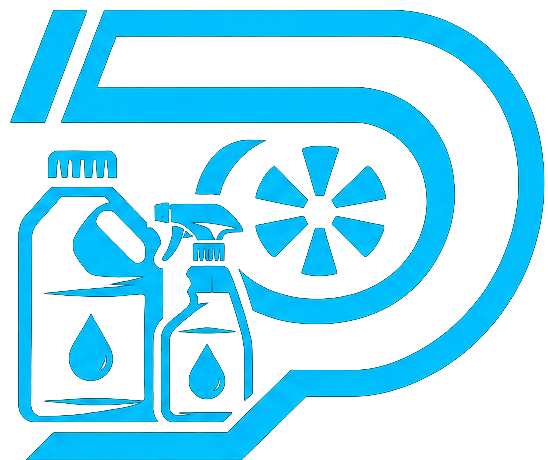
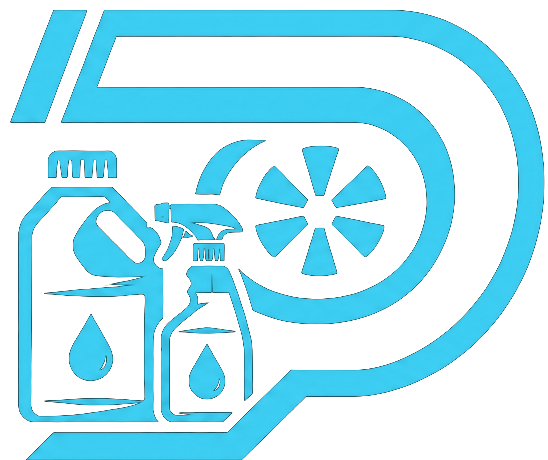
Brand colour sweep: everything on accent cyan #3DC9F0
Images (were neon #01BEFC-#08D1FC, now #3DC9F0 family):
- logo_transparent.png, all 6 category icons, favicon.ico, og-image.jpg
  recoloured with the same method as the loader (hue 193, sat/val
  matched to the UI accent); shapes and transparency unchanged

Code:
- pc-account.js: greys/panel/error colours switched to the site
  tokens (#F2F6F7, #8FA0A6, #C7D0D2, #111415, #03171D, #E84545)
- partout.html: --amber #E8A845 -> #F0B83D (same as every other page)
- privacy.html, terms.html: --panel-2 #161a1b -> #161B1C

Audit result: all 16 pages already shared the same :root palette;
#62D6F5 is the consistent button-hover shade site-wide (kept).
Left as-is on purpose: affiliate category pin colours, Pursuit /
leaderboard game theme.

Claude-Session: https://claude.ai/code/session_01Uve6pFe4KynvzSVAD1vMhd

diff --git a/pc-account.js b/pc-account.js
@@ -145,7 +145,7 @@ window.PC = window.PC || {};
       '.pc-acct-pill{display:inline-flex;align-items:center;gap:7px;cursor:pointer;',
       'padding:8px 14px;border-radius:999px;border:0.5px solid rgba(255,255,255,0.14);',
       'background:rgba(10,12,13,0.82);backdrop-filter:blur(8px);-webkit-backdrop-filter:blur(8px);',
-      'color:#e8edf0;font-size:13px;font-weight:600;letter-spacing:0.02em;line-height:1;',
+      'color:#F2F6F7;font-size:13px;font-weight:600;letter-spacing:0.02em;line-height:1;',
       'max-width:60vw;transition:border-color .15s ease,background .15s ease;}',
       '.pc-acct-pill:hover{border-color:rgba(61,201,240,0.5);background:rgba(10,12,13,0.94);}',
       '.pc-acct-label{overflow:hidden;text-overflow:ellipsis;white-space:nowrap;}',
@@ -165,35 +165,35 @@ window.PC = window.PC || {};
       '.pc-acct.topped .pc-acct-ico{width:38px;height:14px;}',
       '.pc-acct-menu.pc-acct-menu.floating{position:fixed;box-sizing:border-box;z-index:2147483000;font-family:Inter,system-ui,sans-serif;}',
       '.pc-acct-menu{position:absolute;top:calc(100% + 8px);right:0;min-width:210px;',
-      'background:#0c0f10;border:0.5px solid rgba(255,255,255,0.14);border-radius:12px;',
+      'background:#111415;border:0.5px solid rgba(255,255,255,0.14);border-radius:12px;',
       'padding:6px;box-shadow:0 12px 40px rgba(0,0,0,0.55);display:none;}',
       '.pc-acct-menu.open{display:block;}',
       '.pc-acct-item{display:block;width:100%;text-align:left;background:none;border:none;',
-      'color:#c9d3d8;font-size:13px;font-weight:500;font-family:inherit;padding:10px 12px;',
+      'color:#C7D0D2;font-size:13px;font-weight:500;font-family:inherit;padding:10px 12px;',
       'border-radius:8px;cursor:pointer;text-decoration:none;}',
       '.pc-acct-item:hover{background:rgba(61,201,240,0.1);color:#fff;}',
-      '.pc-acct-item.danger{color:#f2856f;}',
-      '.pc-acct-item.danger:hover{background:rgba(242,133,111,0.12);color:#ff9d88;}',
+      '.pc-acct-item.danger{color:#E84545;}',
+      '.pc-acct-item.danger:hover{background:rgba(232,69,69,0.12);color:#FF6B6B;}',
       '.pc-acct-sep{height:1px;background:rgba(255,255,255,0.08);margin:5px 6px;}',
       '.pc-acct-ov{position:fixed;inset:0;z-index:2147483001;display:none;align-items:center;',
       'justify-content:center;background:rgba(4,6,7,0.72);backdrop-filter:blur(4px);padding:20px;}',
       '.pc-acct-ov.open{display:flex;}',
-      '.pc-acct-card{width:100%;max-width:360px;background:#0c0f10;border:0.5px solid rgba(255,255,255,0.14);',
+      '.pc-acct-card{width:100%;max-width:360px;background:#111415;border:0.5px solid rgba(255,255,255,0.14);',
       'border-radius:16px;padding:22px;box-shadow:0 20px 60px rgba(0,0,0,0.6);}',
       '.pc-acct-card h3{margin:0 0 4px;color:#fff;font-size:17px;font-weight:700;font-family:inherit;}',
-      '.pc-acct-card p{margin:0 0 16px;color:#8b979d;font-size:13px;line-height:1.45;}',
-      '.pc-acct-card label{display:block;color:#c9d3d8;font-size:12px;font-weight:600;margin:12px 0 6px;}',
+      '.pc-acct-card p{margin:0 0 16px;color:#8FA0A6;font-size:13px;line-height:1.45;}',
+      '.pc-acct-card label{display:block;color:#C7D0D2;font-size:12px;font-weight:600;margin:12px 0 6px;}',
       '.pc-acct-card input{width:100%;padding:11px 13px;border-radius:8px;border:0.5px solid rgba(255,255,255,0.16);',
       'background:rgba(255,255,255,0.04);color:#fff;font-size:14px;font-family:inherit;}',
       '.pc-acct-card input:focus{outline:none;border-color:' + ACCENT + ';}',
       '.pc-acct-msg{font-size:12.5px;margin-top:10px;display:none;}',
       '.pc-acct-msg.ok{color:#3df08a;display:block;}',
-      '.pc-acct-msg.err{color:#f2856f;display:block;}',
+      '.pc-acct-msg.err{color:#E84545;display:block;}',
       '.pc-acct-row{display:flex;gap:8px;margin-top:18px;}',
       '.pc-acct-btn{flex:1;padding:11px 14px;border-radius:8px;border:none;cursor:pointer;',
       'font-size:13px;font-weight:700;font-family:inherit;}',
-      '.pc-acct-btn.primary{background:' + ACCENT + ';color:#04191f;}',
-      '.pc-acct-btn.ghost{background:rgba(255,255,255,0.06);color:#c9d3d8;border:0.5px solid rgba(255,255,255,0.14);}',
+      '.pc-acct-btn.primary{background:' + ACCENT + ';color:#03171D;}',
+      '.pc-acct-btn.ghost{background:rgba(255,255,255,0.06);color:#C7D0D2;border:0.5px solid rgba(255,255,255,0.14);}',
       '.pc-acct-btn:disabled{opacity:0.5;cursor:default;}'
     ].join('');
     document.head.appendChild(s);

diff --git a/partout.html b/partout.html
@@ -15,7 +15,7 @@
     --black:#070808;--panel:#111415;--panel-2:#161B1C;--line:#23292b;
     --cyan:#1FA9CF;--cyan-bright:#3DC9F0;
     --steel:#8FA0A6;--steel-dim:#5C6A6E;--white:#F2F6F7;--red:#E84545;
-    --amber:#E8A845;--violet:#9B7BE8;
+    --amber:#F0B83D;--violet:#9B7BE8;
   }
   *{box-sizing:border-box;margin:0;padding:0;}
   html{background:var(--black);scroll-behavior:smooth;}
@@ -340,7 +340,7 @@
     padding:4px 9px;border-radius:5px;
   }
   .status-chip.available{background:rgba(61,201,240,0.12);color:var(--cyan-bright);}
-  .status-chip.pending{background:rgba(232,168,69,0.12);color:var(--amber);}
+  .status-chip.pending{background:rgba(240,184,61,0.12);color:var(--amber);}
   .status-chip.reserved{background:rgba(155,123,232,0.12);color:var(--violet);}
   .status-chip.sold{background:rgba(143,160,166,0.12);color:var(--steel);}
   .part-chevron{flex-shrink:0;color:var(--steel-dim);transition:transform 0.2s;}

diff --git a/privacy.html b/privacy.html
@@ -21,7 +21,7 @@
   :root{
     --black:#070808;
     --panel:#111415;
-    --panel-2:#161a1b;
+    --panel-2:#161B1C;
     --line:#23292b;
     --cyan:#1FA9CF;
     --cyan-bright:#3DC9F0;

diff --git a/terms.html b/terms.html
@@ -21,7 +21,7 @@
   :root{
     --black:#070808;
     --panel:#111415;
-    --panel-2:#161a1b;
+    --panel-2:#161B1C;
     --line:#23292b;
     --cyan:#1FA9CF;
     --cyan-bright:#3DC9F0;
